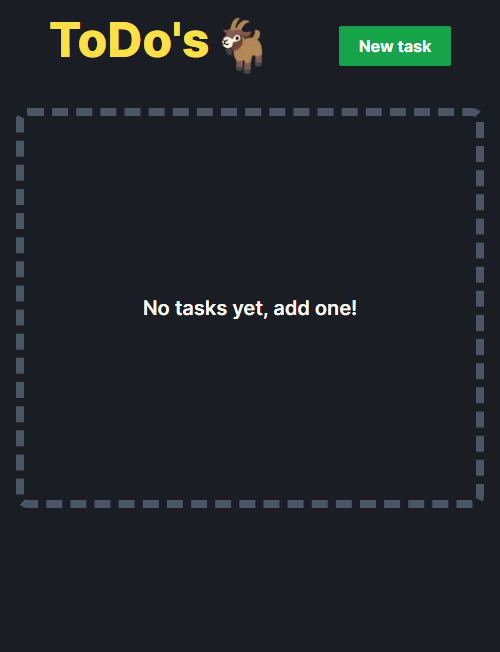
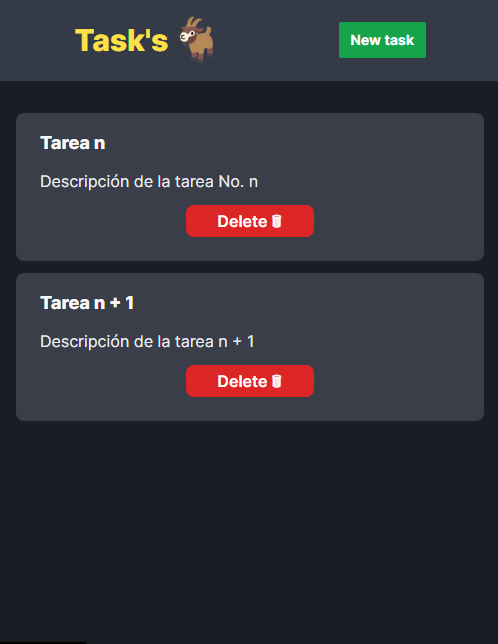
add: final styles

diff --git a/src/app/new/page.js b/src/app/new/page.js
@@ -33,9 +33,9 @@ function NewTask({ params }) {
   }, [])
 
   return (
-    <div className="bg-gray-700 m-4 py-4 px-7 rounded-xl">
-      <form onSubmit={onSubmit} className="flex flex-col gap-y-2">
-        <label className="text-xl">Task:</label>
+      <div className="max-w-[380px] mx-auto">
+      <form onSubmit={onSubmit} className="flex flex-col gap-y-2 bg-gray-700 py-5 px-7 rounded-xl min-w-[200px] m-4">
+        <label className="text-lg">Task:</label>
         <input
           className="text-black p-1 rounded"
           placeholder="Task title"
@@ -45,10 +45,10 @@ function NewTask({ params }) {
           errors.title && (<span className="text-red-400 font-semibold">This field is required</span>
           )
         }
-        <label className="text-xl">Description:</label>
+        <label className="text-lg">Description:</label>
         <textarea
           maxLength={180}
-          rows="5"
+          rows="4"
           className="text-black p-1 rounded resize-none"
           placeholder="Task description"
           {...register("description", { required: true })}
@@ -60,9 +60,9 @@ function NewTask({ params }) {
         }
         <div className="flex justify-center my-2">
           {params.id ? (
-            <button className="bg-blue-500 w-36 py-2 font-bold rounded text-xl hover:bg-blue-600">Update</button>
+            <button className="bg-blue-500 w-24 py-2 font-bold rounded text-lg hover:bg-blue-600">Update</button>
           ) : (
-            <button className="bg-blue-500 w-36 py-2 font-bold rounded text-xl hover:bg-blue-600">Add</button>
+            <button className="bg-blue-500 w-24 py-2 font-bold rounded text-lg hover:bg-blue-600">Add</button>
           )}
           
         </div>

diff --git a/src/components/Header.js b/src/components/Header.js
@@ -1,22 +1,20 @@
 import Image from "next/image"
 import Link from "next/link"
 
-/**
- <Image src="/goat.png" alt="cabra" width="60" height="60"/>
- */
-
 function Header() {
   return (
-    <header className="p-4 flex justify-around items-center cursor-pointer">
-      <Link href="/" className="flex gap-x-1">
-      <h1 className="text-yellow-300 font-extrabold text-5xl">
-        ToDo&apos;s
+    <header className="bg-[#343a46]">
+      <div className="p-4 flex justify-around items-center mb-4 max-w-[720px] mx-auto">
+      <Link href="/" className="flex gap-x-1 justify-center items-center">
+      <h1 className="text-yellow-300 font-extrabold text-3xl">
+        Task&apos;s
       </h1>
-      <Image src="/goat.png" alt="cabra" width="60" height="60"/>
+      <Image src="/goat.png" alt="cabra" width="50" height="60"/>
       </Link>
-      <Link href="/new" className="bg-green-600 px-5 py-2 rounded-sm font-bold hover:bg-green-800">
+      <Link href="/new" className="bg-green-600 px-3 py-2 rounded-sm font-bold  text-sm hover:bg-green-800">
         New task
       </Link>
+      </div>
     </header>
   )
 }

diff --git a/src/components/noTasks.js b/src/components/noTasks.js
@@ -4,10 +4,10 @@ function NoTasks() {
   const router = useRouter()
   return (
     <div
-      className="w-full h-[400px] rounded-xl border-dashed border-gray-600 border-8 flex justify-center items-center cursor-pointer"
+      className=" w-full h-[250px] sm:h-[360px] rounded-xl border-dashed border-gray-600 border-8 flex justify-center items-center cursor-pointer"
       onClick={() => router.push("/new")}
     >
-      <p className="text-xl font-semibold">
+      <p className="text-lg font-semibold">
         No tasks yet, add one!
       </p>
     </div>

diff --git a/src/hooks/useLocalStorage.js b/src/hooks/useLocalStorage.js
@@ -12,7 +12,10 @@ export function useLocalStorage(key, initialValue) {
   }, [])
 
   useEffect(() => {
-    if(state.length > 0)
+    // problema: si el array de tareas está vacío, no se guarda en localStorage
+    // por tanto, siempre habrá un elemento en localStorage
+    // if(state.legth > 0)
+    if(state)
       localStorage.setItem(key, JSON.stringify(state))
   }, [state])
 

diff --git a/src/app/page.js b/src/app/page.js
@@ -6,7 +6,7 @@ import { useTasks } from "@/context/TasksContext"
 export default function Home() {
   const { tasks } = useTasks()
   return (
-    <main className="p-4 grid grid-cols-1 sm:grid-cols-2 md:grid-cols-3 max-w-[660px] gap-3">
+    <main className="p-4 grid grid-cols-1 max-w-[660px] gap-3 mx-auto">
       {tasks.length === 0 && (
         <NoTasks />
       )}
